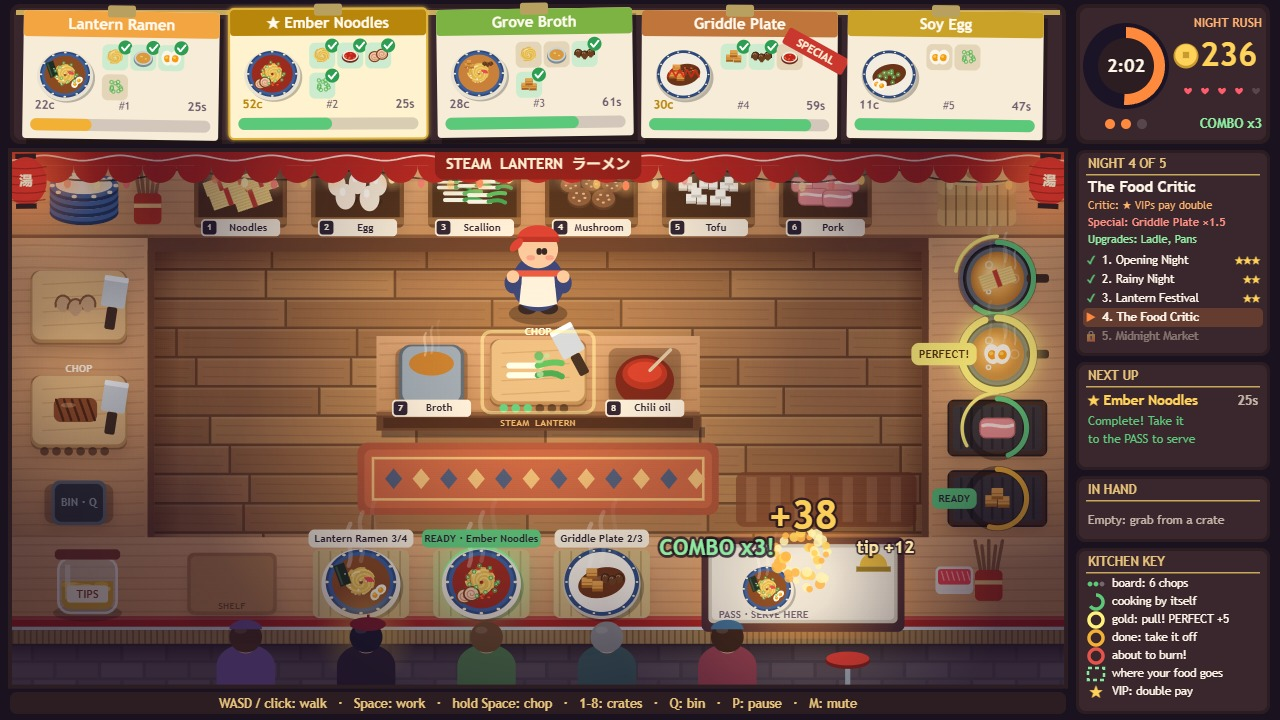
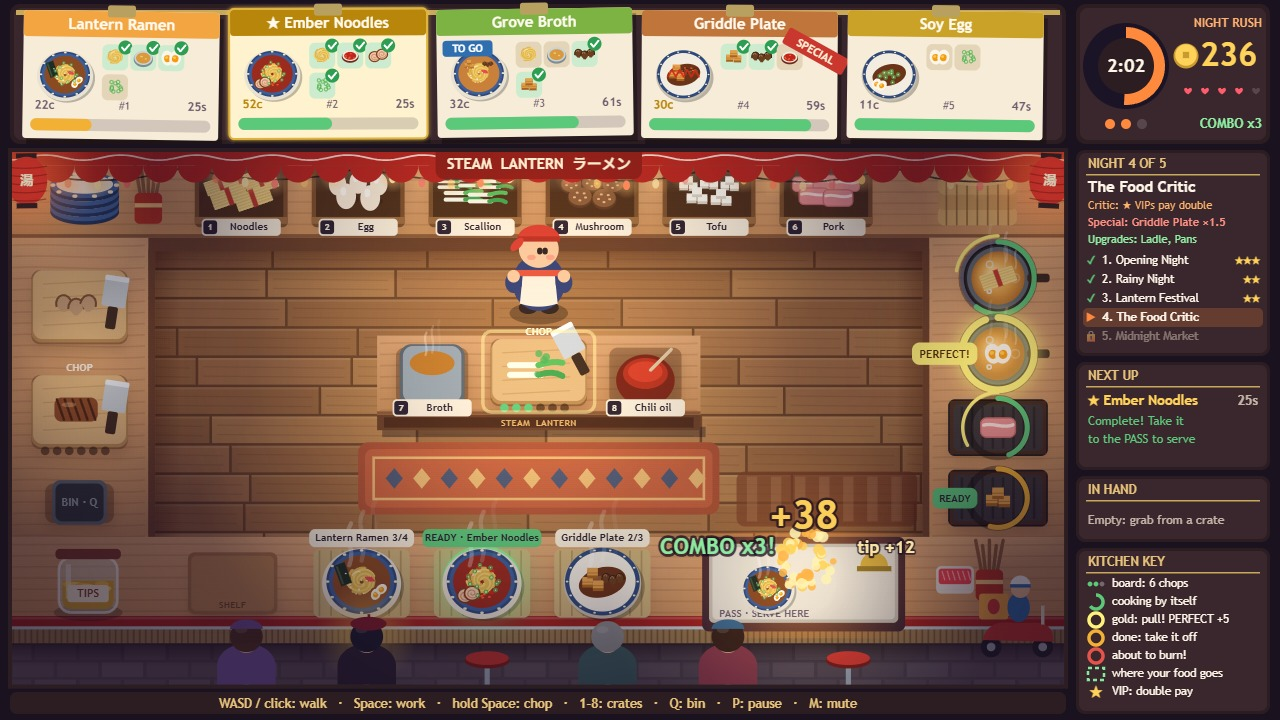
Takeaway orders: TO GO tickets from the rush on night 2, a delivery rider waiting at the counter's end

diff --git a/game/src/render/customers-view.js b/game/src/render/customers-view.js
@@ -140,14 +140,70 @@ function drawDiner(ctx, x, ticket, mood, t, time) {
  * The stools and the diners for the tickets on the rail. `orders.tickets` holds the waiting
  * tickets and the ones leaving (served or walked out) for their last moment.
  */
+/** A delivery rider on a red scooter with a lantern box; waits, then rides off with the bag. */
+function drawRider(ctx, x, y, ticket, time, away) {
+  const urgent = ticket.leaving === 0 && ticket.left / ticket.patience < 0.25;
+  ctx.save();
+  ctx.globalAlpha = ticket.served ? 1 - away * 0.6 : 1 - away;
+  ctx.translate(x + (urgent ? Math.sin(time * 18) * 1.5 : 0), y);
+  // Wheels and body.
+  for (const wx of [-30, 30]) {
+    ellipse(ctx, wx, 2, 12, 12, '#1c1c22');
+    ellipse(ctx, wx, 2, 5, 5, '#8a8f99');
+  }
+  ctx.beginPath();
+  ctx.moveTo(-40, -6);
+  ctx.quadraticCurveTo(-34, -30, -6, -26);
+  ctx.lineTo(24, -26);
+  ctx.quadraticCurveTo(44, -24, 42, -4);
+  ctx.closePath();
+  ctx.fillStyle = '#c9372f';
+  ctx.fill();
+  ctx.fillStyle = '#e8e1d2';
+  ctx.fillRect(28, -46, 4, 22);
+  // The delivery box with the stall's lantern on it.
+  ctx.beginPath();
+  ctx.roundRect(-44, -60, 34, 30, 4);
+  ctx.fillStyle = '#f2a541';
+  ctx.fill();
+  ellipse(ctx, -27, -45, 7, 9, '#c9372f');
+  // The rider: jacket, helmet, and the bag once it's handed over.
+  ellipse(ctx, 2, -44, 13, 17, '#2f6fb0');
+  ellipse(ctx, 4, -66, 11, 11, '#f2c49b');
+  ctx.beginPath();
+  ctx.arc(4, -69, 12, Math.PI, 0);
+  ctx.fillStyle = '#ffffff';
+  ctx.fill();
+  ctx.fillStyle = '#2f6fb0';
+  ctx.fillRect(-8, -71, 24, 4);
+  if (ticket.served) {
+    ctx.beginPath();
+    ctx.roundRect(14, -46, 16, 18, 3);
+    ctx.fillStyle = '#d9b48a';
+    ctx.fill();
+  } else if (urgent) {
+    ctx.font = 'bold 18px sans-serif';
+    ctx.textAlign = 'center';
+    ctx.fillStyle = PALETTE.bad;
+    ctx.fillText('!', 24, -74);
+  }
+  ctx.restore();
+}
+
 export function drawDiners(ctx, orders, time) {
   const taken = new Set();
   orders.tickets.forEach((ticket, index) => {
     if (index < SEATS.length) taken.add(index);
   });
   SEATS.forEach((x, i) => drawStool(ctx, x, !taken.has(i)));
+  // Takeaway orders: a delivery rider waits on a scooter at the end of the counter.
+  const riders = orders.tickets.filter((ticket) => ticket.takeaway);
+  riders.forEach((ticket, i) => {
+    const away = ticket.leaving > 0 ? Math.min(1, ticket.leaving / 0.6) : 0;
+    drawRider(ctx, 1196 + i * 22 + (ticket.served ? away * 140 : 0), STREET_Y + 2 - i * 4, ticket, time, away);
+  });
   orders.tickets.forEach((ticket, index) => {
-    if (index >= SEATS.length) return;
+    if (index >= SEATS.length || ticket.takeaway) return;
     const x = SEATS[index];
     let mood = 'waiting';
     let t = 0;

diff --git a/game/src/world.js b/game/src/world.js
@@ -6,7 +6,7 @@ import { createChef, moveChef, resetChef, stationInReach } from './chef.js';
 import { chopAt, interact, updateCookers } from './kitchen.js';
 import { addTicket, createOrders, fillTicket, openTickets, ticketFor, updateTickets } from './orders.js';
 import { matchRecipe } from './recipes.js';
-import { chooseRecipe, createShift, loseHeart, patienceScale, payForServe, phaseIndex, rollVip, ticketInterval } from './shift.js';
+import { chooseRecipe, createShift, loseHeart, patienceScale, payForServe, phaseIndex, rollTakeaway, rollVip, ticketInterval } from './shift.js';
 import { BOARD, createStations } from './stations.js';
 
 export function createWorld(random, nightId = 1) {
@@ -46,7 +46,7 @@ export function createWorld(random, nightId = 1) {
     }
     fillTicket(ticket);
     const pay = payForServe(world.shift, ticket);
-    world.events.push({ type: 'serve', x: s.cx, y: s.cy, ticket: ticket.id, recipe: ticket.recipe.id, contents: [...contents], ...pay, combo: world.shift.combo, vip: ticket.vip });
+    world.events.push({ type: 'serve', x: s.cx, y: s.cy, ticket: ticket.id, recipe: ticket.recipe.id, contents: [...contents], ...pay, combo: world.shift.combo, vip: ticket.vip, takeaway: ticket.takeaway === true });
     return true;
   };
 
@@ -107,7 +107,12 @@ export function createWorld(random, nightId = 1) {
         world.lastRecipe = recipe.id;
         const ticket = addTicket(world.orders, recipe, patienceScale(shift), rollVip(shift, world.random));
         ticket.special = recipe.id === shift.night.special;
-        world.events.push({ type: 'ticket', ticket: ticket.id, recipe: recipe.id, vip: ticket.vip, x: 0, y: 0 });
+        if (!ticket.vip && rollTakeaway(shift, world.random)) {
+          ticket.takeaway = true;
+          ticket.patience *= 1.3;
+          ticket.left = ticket.patience;
+        }
+        world.events.push({ type: 'ticket', ticket: ticket.id, recipe: recipe.id, vip: ticket.vip, takeaway: ticket.takeaway === true, x: 0, y: 0 });
       }
       shift.nextTicket = ticketInterval(shift) * (0.85 + world.random() * 0.3);
     }

diff --git a/game/src/render/effects.js b/game/src/render/effects.js
@@ -90,6 +90,7 @@ export function applyEvents(fx, events, orders) {
         if (e.tip > 0) floater(fx, e.x + 96, e.y - 34, `tip +${e.tip}`, '#ffe9a8', 20, false, 1.4);
         if (e.combo > 1) floater(fx, e.x - 100, e.y - 34, `COMBO x${e.combo}!`, '#8ff0a4', e.combo >= 3 ? 26 : 21, false, 1.4);
         if (e.vip) floater(fx, e.x, e.y - 124, '★ CRITIC SERVED · DOUBLE PAY!', PALETTE.coin, 26, false, 1.6);
+        if (e.takeaway) floater(fx, e.x, e.y - 124, 'Bagged to go! +4', '#9fd0ff', 24, false, 1.5);
         burst(fx, e.x, e.y - 10, 34 + 6 * e.combo, [PALETTE.coin, '#fff2b0', '#ffb547'], 300, 500, 0.9, 5.5);
         if (e.combo >= 3) fx.shake = Math.max(fx.shake, 0.15);
         fx.coinPulse = 1;
@@ -111,6 +112,7 @@ export function applyEvents(fx, events, orders) {
         break;
       case 'ticket':
         if (e.vip) fx.banner = { message: '★ VIP TICKET', sub: 'The critic is here: double pay, short wait', life: 0.4 };
+        else if (e.takeaway) floater(fx, 1140, 640, 'A rider pulls up: TO GO!', '#9fd0ff', 20, false, 1.6);
         break;
       default:
     }

diff --git a/game/src/shift.js b/game/src/shift.js
@@ -94,9 +94,14 @@ export function rollVip(shift, random) {
   return shift.night.twist === TWIST_CRITIC && shift.time > 20 && random() < 0.22;
 }
 
-/** A ticket's price: doubled for a VIP, half again for tonight's special. */
+/** A ticket's price: doubled for a VIP, half again for tonight's special, a packing fee to go. */
 export function priceOf(ticket) {
-  return Math.round(ticket.recipe.price * (ticket.vip ? 2 : 1) * (ticket.special ? 1.5 : 1));
+  return Math.round(ticket.recipe.price * (ticket.vip ? 2 : 1) * (ticket.special ? 1.5 : 1)) + (ticket.takeaway ? 4 : 0);
+}
+
+/** From night 2, once the rush starts, some orders are to go: a rider waits, a little longer. */
+export function rollTakeaway(shift, random) {
+  return shift.night.id >= 2 && shiftProgress(shift) >= 0.31 && random() < 0.25;
 }
 
 /** Pay for a served ticket: price (doubled for a VIP), a tip for speed and the combo bonus. */

diff --git a/game/src/render/hud-view.js b/game/src/render/hud-view.js
@@ -98,6 +98,11 @@ function drawTicket(ctx, ticket, x, y, time, have) {
   roundRect(ctx, 8, TICKET.height - 20, Math.max(6, (TICKET.width - 16) * fraction), 12, 6, patienceColour(fraction));
   text(ctx, `${Math.ceil(ticket.left)}s`, TICKET.width - 12, TICKET.height - 33, 12, urgent ? PALETTE.bad : PALETTE.inkSoft, 'right');
   text(ctx, `${priceOf(ticket)}c`, 12, TICKET.height - 33, 12, ticket.vip || ticket.special ? '#b8860b' : PALETTE.inkSoft, 'left');
+  if (ticket.takeaway) {
+    // To go: a blue tag and a paper bag under the dish.
+    roundRect(ctx, 6, 31, 50, 16, 4, '#2f6fb0');
+    text(ctx, 'TO GO', 31, 39.5, 10.5, '#ffffff');
+  }
   if (ticket.special) {
     // Tonight's special: a red ribbon across the corner.
     ctx.save();

diff --git a/game/src/shots.js b/game/src/shots.js
@@ -114,7 +114,8 @@ function stageService(world, fx) {
   setNight(world, 118, { coins: 236, served: 8, missed: 1, combo: 3, bestCombo: 4, vipServed: 1, perfects: 5 });
   ticket(world, 'lantern', 0.34);
   ticket(world, 'ember', 0.52, true);
-  ticket(world, 'grove', 0.74);
+  const toGo = ticket(world, 'grove', 0.74);
+  toGo.takeaway = true;
   ticket(world, 'griddle', 0.9);
   ticket(world, 'soyegg', 1);
   world.events.push({ type: 'serve', x: 948, y: 650, earned: 38, tip: 12, bonus: 4, combo: 3, contents: ['broth', 'noodles', 'egg', 'scallion'] });

diff --git a/README.md b/README.md
@@ -23,6 +23,7 @@ Tickets clip onto the order board, and each one is a dish with a patience bar. T
   - a strip under the kitchen keeps the controls in view;
   - stations where your food can go are outlined;
   - dishes on the mats show their progress ("Lantern Ramen 3/4", "READY").
+- **Takeaway orders**: from night 2, once the rush starts, some tickets are TO GO; a delivery rider waits on a scooter at the end of the counter, a little longer, and pays a packing fee.
 - **Side dishes**: Tofu Bites and Soy Egg, quick two-ingredient plates that slot between the bowls from night 2.
 - **Tonight's special**: one dish each night pays half again, marked with a red ribbon on its ticket.
 - **Stall upgrades**: every night's coins go into the bank, and the results card sells five lasting upgrades (Sharp Knife, Gold Ladle, Heavy Pans, Paper Lanterns, Tip Jar Sign).
